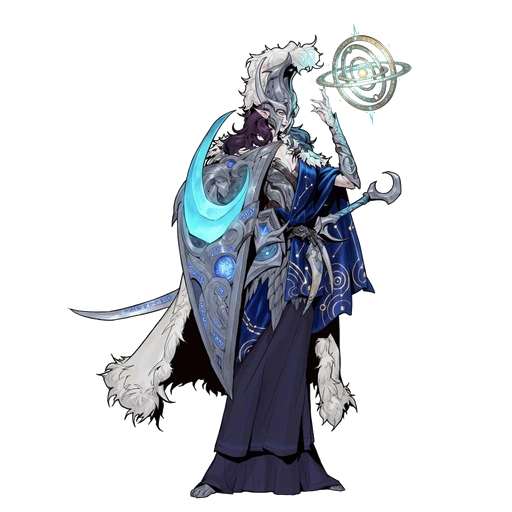
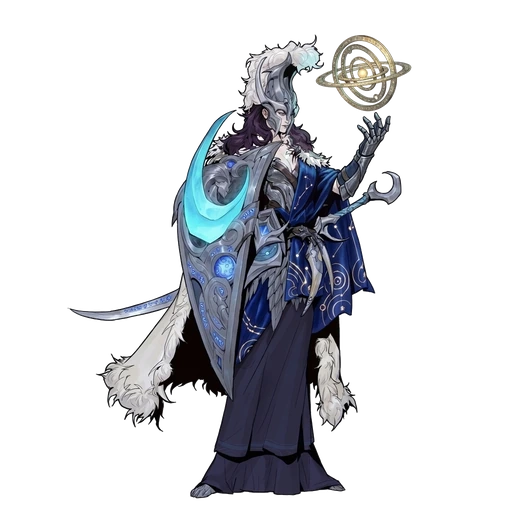
fix(art): refine Khorvus straight greatsword/golden cuirass and Selene human ears/gauntlet hand (v87)

Changed region(s): [[0.4688, 0.0625, 0.8125, 0.4062]]

diff --git a/src/data/cardArtPrompts.ts b/src/data/cardArtPrompts.ts
@@ -1069,7 +1069,7 @@ export const CARD_ART_PROMPTS: Record<string, string> = {
   "gold_179_leoric_grao_marechal_leao_solar": "2D Dark Fantasy gothic baroque cel-shaded ink illustration, colossal Golden Imperial Human Grand-Marshal Leoric in ornate gold-and-ivory plate armor with sculpted roaring lion-head breastplate, horned golden crown-helm with radiant solar-halo crest behind head, resting a glowing winged solar runeblade across his shoulder while bracing a white-and-gold tower shield with a raised 3D roaring lion-sun crest and crimson war-cape on pure white background.",
   "gold_180_valerius_comandante_aguia_imperial": "2D Dark Fantasy gothic baroque cel-shaded ink illustration, veteran Imperial Human Commander Valerius wearing a golden imperial laurel circlet over a white paladin hood, stern silver-bearded face with glowing golden-cyan eyes and blue war-markings, huge sculpted golden eagle pauldrons with cyan gems, sweeping crimson-and-gold royal cape, and left gauntlet resting on the hilt of a planted golden imperial greatsword on pure white background.",
   "gold_181_wolfgang_marechal_escama_solar": "2D Dark Fantasy gothic baroque cel-shaded ink illustration, towering Dragon-Scale Human Marshal Wolfgang in full golden dragon-scale plate armor with crowned draconic visor helm and glowing sapphire eyes, thick white wolf-fur collar around neck, roaring beast pauldrons with blue sapphires, twin crossed black-and-sapphire runic greatswords strapped in an X across his back, and right gauntlet wielding a colossal sapphire-inset golden warhammer with tattered crimson cloak on pure white background.",
-  "red_179_khorvus_tirano_mascara_auricrania": "2D Dark Fantasy gothic baroque cel-shaded ink illustration, sculpted muscular Crimson Warlord Khorvus with flowing white hair crowned by a golden-and-ruby diadem, wearing an ornate golden skull lower-face mask, golden war-runes across chest, crimson war-skirt with ruby-inset golden belt and long golden ribbons, standing beside a colossal planted crimson-and-gold magma executioner cleaver with a golden dragon-head crossguard on pure white background.",
+  "red_179_khorvus_tirano_mascara_auricrania": "2D Dark Fantasy gothic baroque cel-shaded ink illustration, Imperial Crimson Tyrant General Khorvus with flowing white hair crowned by a golden-and-ruby diadem, wearing an ornate golden skull lower-face mask, heavy sculpted golden-and-crimson imperial breastplate cuirass, layered golden pauldrons, gorget, and gauntlets covering his upper body, crimson war-skirt with ruby-inset golden tassets, standing beside a colossal perfectly straight double-edged crimson-and-gold imperial greatsword with a symmetrical winged golden-ruby crossguard and straight two-handed grip on pure white background.",
   "red_180_malakor_general_lamina_colossal": "2D Dark Fantasy gothic baroque cel-shaded ink illustration, brutal Black-Iron Berserker General Malakor in spiked dark-iron plate armor with glowing crimson lava fissures, crowned black visor helm with glowing red eyes, tattered crimson cloak with gold imperial trim, resting his right hand on a colossal planted slab greatsword with a glowing molten-lava core on pure white background.",
   "red_181_ignis_marechal_coroa_cinzas": "2D Dark Fantasy gothic baroque cel-shaded ink illustration, towering Volcanic Dread-Marshal Ignis in jagged dark-steel plate armor with sculpted dragon-skull pauldrons glowing with magma, tall three-peaked obsidian-and-gold crown helm with fiery eyes, crimson tabard and tattered dark cloak, resting his left gauntlet on the crossguard of a massive planted molten-edge greatsword inscribed with fiery runes on pure white background.",
   "blue_179_arcturus_rei_juiz_coroa_safira": "2D Dark Fantasy gothic baroque cel-shaded ink illustration, regal Sapphire-Crown Judge-King Arcturus in cobalt-blue, black-steel, and antique-gold plate armor with a blue-hooded golden crown-helm set with cyan sapphires, glowing starlight visor eyes, cobalt royal sash, and flowing dark-and-gold war-coat, resting his right hand on a colossal planted skeletal-ribbed astral greatsword with a glowing sapphire core on pure white background.",

diff --git a/src/data/cards.ts b/src/data/cards.ts
@@ -32432,7 +32432,7 @@ const ALL_CARDS_PART_2: CardDefinition[] = [
     "name": "Valerius, Comandante da Águia Imperial",
     "domain": "gold",
     "type": "creature",
-    "subtype": "Humano • General Estrategista",
+    "subtype": "Humano • General Águia",
     "rarity": "legendary",
     "cost": 5,
     "affinityReq": 3,
@@ -32701,7 +32701,7 @@ const ALL_CARDS_PART_2: CardDefinition[] = [
     "name": "Selene, Estrategista da Égide Lunar",
     "domain": "blue",
     "type": "creature",
-    "subtype": "Humano • General Estrategista",
+    "subtype": "Humano • General Lunar",
     "rarity": "legendary",
     "cost": 7,
     "affinityReq": 3,
@@ -32740,7 +32740,7 @@ const ALL_CARDS_PART_2: CardDefinition[] = [
     "name": "Aldric, Marechal do Lobo Prateado",
     "domain": "neutral",
     "type": "creature",
-    "subtype": "Humano • General Mercenário",
+    "subtype": "Humano • General Lupino",
     "rarity": "legendary",
     "cost": 5,
     "affinityReq": 0,
@@ -32893,7 +32893,7 @@ const ALL_CARDS_PART_2: CardDefinition[] = [
     "name": "Flora, Dama do Florescer Perene",
     "domain": "green",
     "type": "creature",
-    "subtype": "Humano • General Florescente",
+    "subtype": "Humano • General Floral",
     "rarity": "legendary",
     "cost": 6,
     "affinityReq": 3,
@@ -33057,7 +33057,7 @@ const ALL_CARDS_PART_2: CardDefinition[] = [
     "name": "Nyxara, Comandante das Lâminas do Véu",
     "domain": "purple",
     "type": "creature",
-    "subtype": "Humano • General das Sombras",
+    "subtype": "Humano • General do Véu",
     "rarity": "legendary",
     "cost": 7,
     "affinityReq": 3,

diff --git a/src/components/CardView.tsx b/src/components/CardView.tsx
@@ -496,7 +496,7 @@ export const CardView: React.FC<CardViewProps> = ({
           <div className={`cpa-token-art aura-${displayCard.domain}`}>
             {!imgError && displayCard.imagePath ? (
               <img
-                src={`${displayCard.imagePath}?v=72`}
+                src={`${displayCard.imagePath}?v=73`}
                 alt={displayName}
                 className="cpa-token-img"
                 onError={() => setImgError(true)}
@@ -667,7 +667,7 @@ export const CardView: React.FC<CardViewProps> = ({
 
           {!imgError && displayCard.imagePath ? (
             <img
-              src={`${displayCard.imagePath}?v=72`}
+              src={`${displayCard.imagePath}?v=73`}
               alt={displayName}
               className="card-cutout-img"
               onError={() => setImgError(true)}

diff --git a/public/sw.js b/public/sw.js
@@ -1,4 +1,4 @@
-const CACHE_VERSION = 'chromatic-pact-v86';
+const CACHE_VERSION = 'chromatic-pact-v87';
 const ASSET_CACHE = `${CACHE_VERSION}-assets`;
 
 const PRECACHE_URLS = [
